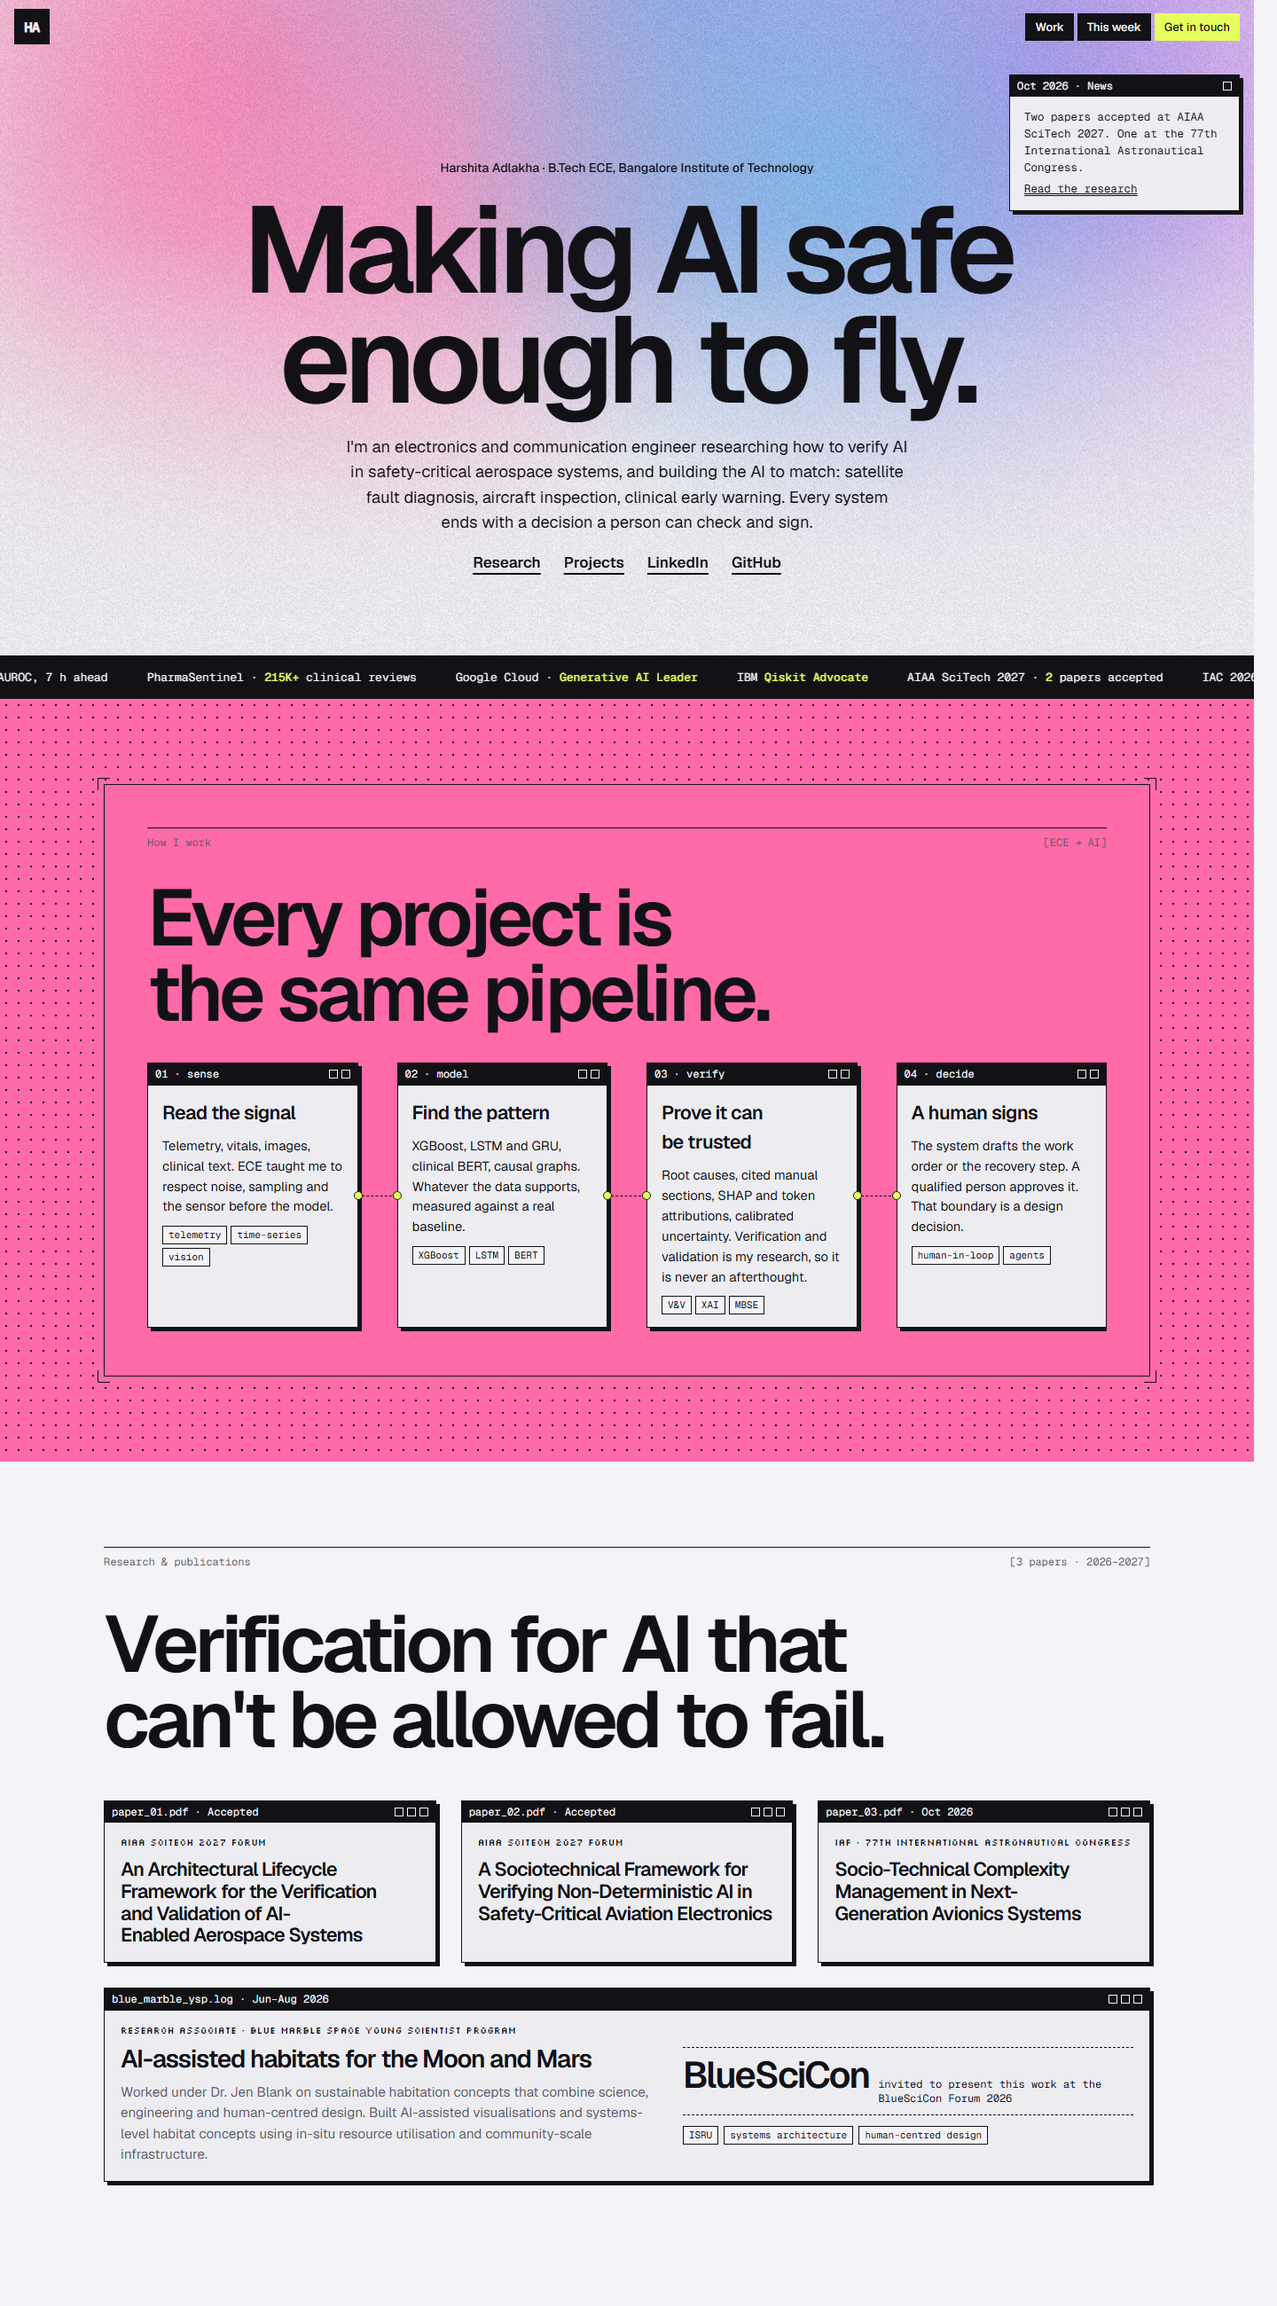
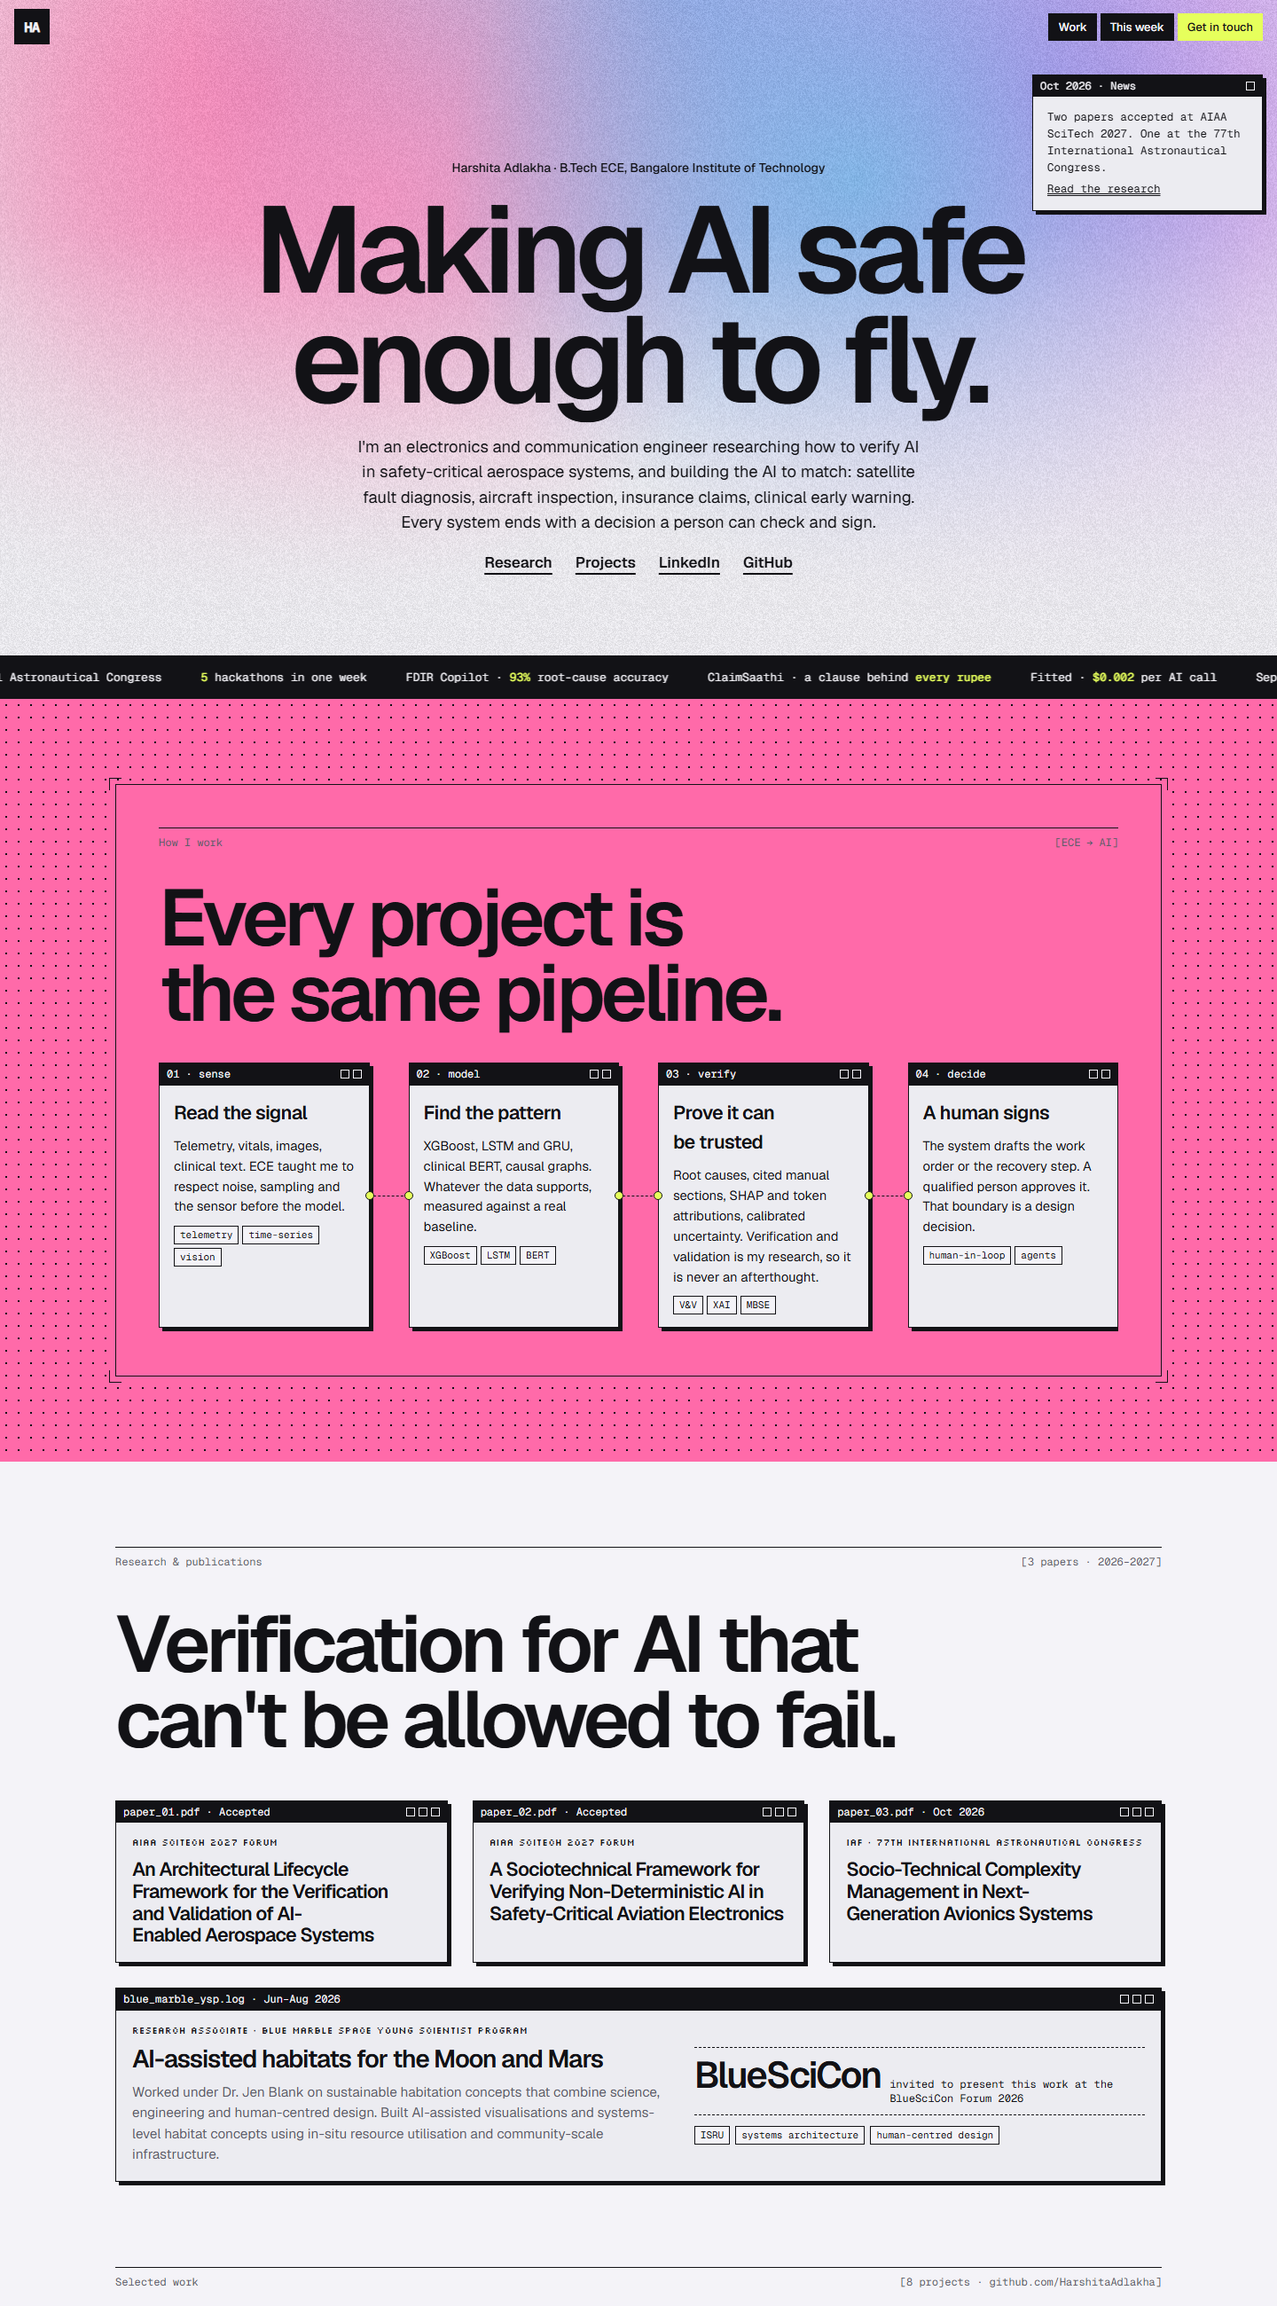
Add ClaimSaathi and Fitted; five hackathons this week; refresh site copy and screenshot

diff --git a/site/index.html b/site/index.html
@@ -112,7 +112,7 @@ section{padding-block:96px}
 
 /* timeline */
 .blueband{background:linear-gradient(180deg,var(--paper),#dfe9f7 60%,var(--paper))}
-.week{display:grid;grid-template-columns:repeat(auto-fit,minmax(min(100%,260px),1fr));gap:24px}
+.week{display:grid;grid-template-columns:repeat(auto-fit,minmax(min(100%,200px),1fr));gap:24px}
 .day .wb{gap:8px}
 .day .date{font:400 12px/1 var(--mono);color:var(--muted)}
 .day h3{font-size:1.5rem;letter-spacing:-.035em;font-weight:600}
@@ -153,7 +153,7 @@ footer small{font:400 12px/1.5 var(--mono);color:var(--muted)}
   <div class="inner">
     <p class="kicker">Harshita Adlakha · B.Tech ECE, Bangalore Institute of Technology</p>
     <h1>Making AI safe enough to fly.</h1>
-    <p class="sub">I'm an electronics and communication engineer researching how to verify AI in safety-critical aerospace systems, and building the AI to match: satellite fault diagnosis, aircraft inspection, clinical early warning. Every system ends with a decision a person can check and sign.</p>
+    <p class="sub">I'm an electronics and communication engineer researching how to verify AI in safety-critical aerospace systems, and building the AI to match: satellite fault diagnosis, aircraft inspection, insurance claims, clinical early warning. Every system ends with a decision a person can check and sign.</p>
     <div class="links">
       <a href="#research">Research</a>
       <a href="#work">Projects</a>
@@ -165,8 +165,8 @@ footer small{font:400 12px/1.5 var(--mono);color:var(--muted)}
 
 <div class="strip" aria-hidden="true">
   <div class="row">
-    <span>AIAA SciTech 2027 · <b>2</b> papers accepted</span><span>IAC 2026 · <b>77th</b> International Astronautical Congress</span><span>FDIR Copilot · <b>93%</b> root-cause accuracy</span><span>Sepsis Early Warning · <b>~0.91</b> AUROC, 7 h ahead</span><span>PharmaSentinel · <b>215K+</b> clinical reviews</span><span>Google Cloud · <b>Generative AI Leader</b></span><span>IBM <b>Qiskit Advocate</b></span>
-    <span>AIAA SciTech 2027 · <b>2</b> papers accepted</span><span>IAC 2026 · <b>77th</b> International Astronautical Congress</span><span>FDIR Copilot · <b>93%</b> root-cause accuracy</span><span>Sepsis Early Warning · <b>~0.91</b> AUROC, 7 h ahead</span><span>PharmaSentinel · <b>215K+</b> clinical reviews</span><span>Google Cloud · <b>Generative AI Leader</b></span><span>IBM <b>Qiskit Advocate</b></span>
+    <span>AIAA SciTech 2027 · <b>2</b> papers accepted</span><span>IAC 2026 · <b>77th</b> International Astronautical Congress</span><span><b>5</b> hackathons in one week</span><span>FDIR Copilot · <b>93%</b> root-cause accuracy</span><span>ClaimSaathi · a clause behind <b>every rupee</b></span><span>Fitted · <b>$0.002</b> per AI call</span><span>Sepsis Early Warning · <b>~0.91</b> AUROC, 7 h ahead</span><span>Google Cloud · <b>Generative AI Leader</b></span>
+    <span>AIAA SciTech 2027 · <b>2</b> papers accepted</span><span>IAC 2026 · <b>77th</b> International Astronautical Congress</span><span><b>5</b> hackathons in one week</span><span>FDIR Copilot · <b>93%</b> root-cause accuracy</span><span>ClaimSaathi · a clause behind <b>every rupee</b></span><span>Fitted · <b>$0.002</b> per AI call</span><span>Sepsis Early Warning · <b>~0.91</b> AUROC, 7 h ahead</span><span>Google Cloud · <b>Generative AI Leader</b></span>
   </div>
 </div>
 
@@ -239,7 +239,7 @@ footer small{font:400 12px/1.5 var(--mono);color:var(--muted)}
 
 <section class="gut" id="work" aria-labelledby="workh" style="padding-top:0">
   <div class="inner">
-    <div class="label"><span>Selected work</span><span>[6 projects · github.com/HarshitaAdlakha]</span></div>
+    <div class="label"><span>Selected work</span><span>[8 projects · github.com/HarshitaAdlakha]</span></div>
     <h2 class="big" id="workh" style="margin-bottom:48px">Built, measured, shipped.</h2>
     <div class="grid">
 
@@ -271,6 +271,30 @@ footer small{font:400 12px/1.5 var(--mono);color:var(--muted)}
           <div class="metric"><b>9</b><span>steps in one call, from tail number to a signed-off work order</span></div>
           <div class="chips"><span class="tag">OpenAI Realtime</span><span class="tag">LiveKit</span><span class="tag">Chert</span><span class="tag">Keenable</span></div>
           <div class="acts"><a class="btn y" href="https://parasadlakha.github.io/linecheck/">Replay a call</a><a class="btn" href="https://github.com/HarshitaAdlakha/linecheck">Code</a></div>
+        </div>
+      </article>
+
+      <article class="win proj">
+        <div class="tb"><span>claimsaathi.js · Paytm Build for India AI</span><span class="btns"><i></i><i></i><i></i></span></div>
+        <div class="wb">
+          <span class="pix">Insurance · fintech</span>
+          <h3>ClaimSaathi</h3>
+          <p class="what">Know what your health insurer will pay before you file. It reads the hospital bill, checks every line against the policy and IRDAI rules, explains each cut in Hindi or English, and drafts the grievance when a settlement breaks the rules.</p>
+          <div class="metric"><b>₹10,498</b><span>wrongful deduction found and contested in the sample claim · a clause behind every rupee</span></div>
+          <div class="chips"><span class="tag">rules engine</span><span class="tag">vision AI</span><span class="tag">Hindi + English</span><span class="tag">voice</span></div>
+          <div class="acts"><a class="btn y" href="https://harshitaadlakha.github.io/claimsaathi/app/">Try the app</a><a class="btn" href="https://github.com/HarshitaAdlakha/claimsaathi">Code</a></div>
+        </div>
+      </article>
+
+      <article class="win proj">
+        <div class="tb"><span>fitted.js · Stripe × Supabase · Berlin</span><span class="btns"><i></i><i></i><i></i></span></div>
+        <div class="wb">
+          <span class="pix">Small business · payments</span>
+          <h3>Fitted</h3>
+          <p class="what">Describe your business in one paragraph, get booking software that fits it: courts for a padel club, a bike map for a spin studio, stylists for a salon. Customers pay through Stripe Connect; Supabase refuses double bookings at the database level.</p>
+          <div class="metric"><b>$0.002</b><span>per AI call · AI runs only at setup and on changes, never on a booking</span></div>
+          <div class="chips"><span class="tag">Stripe Connect</span><span class="tag">Supabase</span><span class="tag">structured outputs</span></div>
+          <div class="acts"><a class="btn y" href="https://harshitaadlakha.github.io/fitted/">Project page</a><a class="btn" href="https://github.com/HarshitaAdlakha/fitted">Code</a></div>
         </div>
       </article>
 
@@ -310,15 +334,20 @@ footer small{font:400 12px/1.5 var(--mono);color:var(--muted)}
         </div>
       </article>
 
-      <article class="win proj">
+      <article class="win proj feat">
         <div class="tb"><span>off_world_robot.tsx · Blue Marble Space</span><span class="btns"><i></i><i></i><i></i></span></div>
         <div class="wb">
-          <span class="pix">Planetary robotics</span>
-          <h3>Off-World Robot Architect</h3>
-          <p class="what">A CAD workbench and human-robot teaming simulator for robots that assist 100-person lunar and Martian outposts, built alongside her Blue Marble Space research.</p>
-          <div class="metric"><b>−153°C</b><span>the Martian night the joints, seals and batteries have to survive</span></div>
-          <div class="chips"><span class="tag">TypeScript</span><span class="tag">simulation</span><span class="tag">AI evaluation</span></div>
-          <div class="acts"><a class="btn" href="https://github.com/HarshitaAdlakha/Off-World-Robot-Architect-Lunar-Martian-Mechanical-Assistant-Simulator">Code</a></div>
+          <div style="display:flex;flex-direction:column;gap:12px;min-width:0">
+            <span class="pix">Planetary robotics</span>
+            <h3>Off-World Robot Architect</h3>
+            <p class="what">A CAD workbench and human-robot teaming simulator for robots that assist 100-person lunar and Martian outposts, built alongside her Blue Marble Space research.</p>
+            <div class="chips"><span class="tag">TypeScript</span><span class="tag">simulation</span><span class="tag">AI evaluation</span></div>
+            <div class="acts"><a class="btn y" href="https://off-world-robot-architect-lunar-martian.onrender.com/">Live demo (wakes in ~1 min)</a><a class="btn" href="https://github.com/HarshitaAdlakha/Off-World-Robot-Architect-Lunar-Martian-Mechanical-Assistant-Simulator">Code</a></div>
+          </div>
+          <div style="display:flex;flex-direction:column;gap:12px;justify-content:center">
+            <div class="metric"><b>−153°C</b><span>the Martian night the joints, seals and batteries have to survive</span></div>
+            <p style="font:400 12.5px/1.5 var(--mono)">Regolith that clings and erodes, dust storms that block 99% of sunlight, a thin CO₂ atmosphere that barely cools. The simulator scores every design against them.</p>
+          </div>
         </div>
       </article>
 
@@ -328,15 +357,19 @@ footer small{font:400 12px/1.5 var(--mono);color:var(--muted)}
 
 <section class="blueband gut" id="week" aria-labelledby="weekh">
   <div class="inner">
-    <div class="label"><span>This week</span><span>[3 cities · 3 days]</span></div>
-    <h2 class="big" id="weekh" style="margin-bottom:48px">Paris. San Francisco. London.</h2>
+    <div class="label"><span>This week</span><span>[5 hackathons · 5 cities]</span></div>
+    <h2 class="big" id="weekh" style="margin-bottom:48px">Five hackathons. One week.</h2>
     <div class="week">
       <div class="win day"><div class="tb"><span>Thu · Paris</span><span class="btns"><i></i></span></div>
         <div class="wb"><span class="date">22 Oct 2026</span><h3>Accel AI Innovate: Future Founders</h3><p>Built FDIR Copilot, the satellite root-cause agent.</p></div></div>
       <div class="win day"><div class="tb"><span>Fri · San Francisco (remote)</span><span class="btns"><i></i></span></div>
         <div class="wb"><span class="date">23 Oct 2026</span><h3>Beta Fund × AWS × OpenAI</h3><p>Built LineCheck, the FaceTime aircraft inspector.</p></div></div>
+      <div class="win day"><div class="tb"><span>Sat · Berlin</span><span class="btns"><i></i></span></div>
+        <div class="wb"><span class="date">24 Oct 2026</span><h3>Stripe × Supabase: AI Payments</h3><p>Built Fitted, booking software from one paragraph.</p></div></div>
       <div class="win day"><div class="tb"><span>Sat · London</span><span class="btns"><i></i></span></div>
         <div class="wb"><span class="date">24 Oct 2026</span><h3>Canva Gen© Student Hackathon</h3><p>Designed this personal brand, CV and site.</p></div></div>
+      <div class="win day"><div class="tb"><span>Bengaluru</span><span class="btns"><i></i></span></div>
+        <div class="wb"><span class="date">Stage 1 · 27 Oct 2026</span><h3>Paytm Build for India AI</h3><p>Building ClaimSaathi, the health-claim companion.</p></div></div>
     </div>
     <div class="win edu">
       <div class="tb"><span>education.txt</span><span class="btns"><i></i><i></i></span></div>

diff --git a/README.md b/README.md
@@ -63,7 +63,7 @@ A monogram drawn as a feedback loop with a polarity sign, five colours, three ty
 
 - **Header band:** name, *Making AI safe enough to fly*, a one-line research summary and every contact. Plain, large and scannable.
 - **Left column:** education (GPA 7.9), all three publications, certifications and skills.
-- **Right column:** Blue Marble Space research, five projects (each with venue, tools and one result) and programs.
+- **Right column:** Blue Marble Space research, five project entries (FDIR Copilot, LineCheck, ClaimSaathi, Fitted, and her clinical ML work, each with venue, tools and one result) and programs.
 - **Pipeline strip:** the four steps every project follows, styled like the portfolio's windows.
 - **Footer:** a working QR code to the live portfolio, drawn as a Canva shape so it stays editable.
 
@@ -76,8 +76,8 @@ A monogram drawn as a feedback loop with a polarity sign, five colours, three ty
 - **Hero:** "Making AI safe enough to fly." over an animated grain gradient, with a news window announcing the papers.
 - **How I work:** a node canvas of four connected steps (sense → model → verify → a human signs) that every project follows.
 - **Research:** the three papers and the Blue Marble Space Young Scientist Program role, each as a desktop window.
-- **Projects:** six projects from GitHub, each with one headline number and links to live demos and code.
-- **This week:** three hackathons in three days, plus education, certifications and programs.
+- **Projects:** eight projects from GitHub, each with one headline number and links to live demos and code.
+- **This week:** five hackathons in one week (Paris, San Francisco, Berlin, London, Bengaluru), plus education, certifications and programs.
 - **Contact:** email, LinkedIn and GitHub.
 
 ---
@@ -167,7 +167,7 @@ The portfolio is one self-contained HTML file. To run it locally, open `site/ind
 ## What I learned
 
 - **Facts first.** The most creative choice on the CV is how plain the top band is.
-- **One story beats many projects.** Repositioning around verification ("making AI safe enough to fly") made six unrelated-looking projects read as one body of work.
+- **One story beats many projects.** Repositioning around verification ("making AI safe enough to fly") made eight unrelated-looking projects, from satellites to insurance claims, read as one body of work: each ends with a decision a person can check.
 - **Generated templates weren't enough.** The first website draft was generic. Studying two real interfaces and taking one idea from each produced something with a point of view.
 - **Every number needs a source.** Each metric on the CV and site comes from my résumé or a project README, and the sepsis result notes that the public demo runs on synthetic data.
 
@@ -189,10 +189,10 @@ Researching systems engineering and verification frameworks for AI in safety-cri
 
 ## Thanks
 
-Thank you to **Bright Creative** and hosts **Ana Davila** and **Ninna Bianca Dulalia** for running the Canva Gen© Student Hackathon, to the **Canva** team for the tools and for reviewing our work, and to every student who built alongside me. Thanks also to **Paras Adlakha**, my teammate on LineCheck and FDIR Copilot earlier this week.
+Thank you to **Bright Creative** and hosts **Ana Davila** and **Ninna Bianca Dulalia** for running the Canva Gen© Student Hackathon, to the **Canva** team for the tools and for reviewing our work, and to every student who built alongside me. Thanks also to **Paras Adlakha**, my teammate on FDIR Copilot, LineCheck, Fitted and ClaimSaathi this week.
 
 ## References
 
 - Ladders, *Eye-Tracking Study* (2012; updated 2018), via [WEF](https://weforum.org/stories/2014/11/what-recruiters-look-your-cv-resume) and [Barclay Simpson](https://www.barclaysimpson.com/how-long-do-recruiters-spend-looking-at-cv/)
 - [Figma Weave](https://www.figma.com/solutions/figma-ai-tool-weave/) and [TypeSafe](https://typesafe.ai/), design references
-- Projects referenced: [FDIR Copilot](https://github.com/HarshitaAdlakha/fdir-copilot) · [LineCheck](https://github.com/HarshitaAdlakha/linecheck) · [PharmaSentinel](https://github.com/HarshitaAdlakha/pharmasentinel) · [Sepsis Early Warning](https://github.com/HarshitaAdlakha/sepsis-early-warning) · [Hospital Readmission Predictor](https://github.com/HarshitaAdlakha/hospital-readmission-predictor) · [Off-World Robot Architect](https://github.com/HarshitaAdlakha/Off-World-Robot-Architect-Lunar-Martian-Mechanical-Assistant-Simulator)
+- Projects referenced: [FDIR Copilot](https://github.com/HarshitaAdlakha/fdir-copilot) · [LineCheck](https://github.com/HarshitaAdlakha/linecheck) · [ClaimSaathi](https://github.com/HarshitaAdlakha/claimsaathi) · [Fitted](https://github.com/HarshitaAdlakha/fitted) · [PharmaSentinel](https://github.com/HarshitaAdlakha/pharmasentinel) · [Sepsis Early Warning](https://github.com/HarshitaAdlakha/sepsis-early-warning) · [Hospital Readmission Predictor](https://github.com/HarshitaAdlakha/hospital-readmission-predictor) · [Off-World Robot Architect](https://github.com/HarshitaAdlakha/Off-World-Robot-Architect-Lunar-Martian-Mechanical-Assistant-Simulator)
